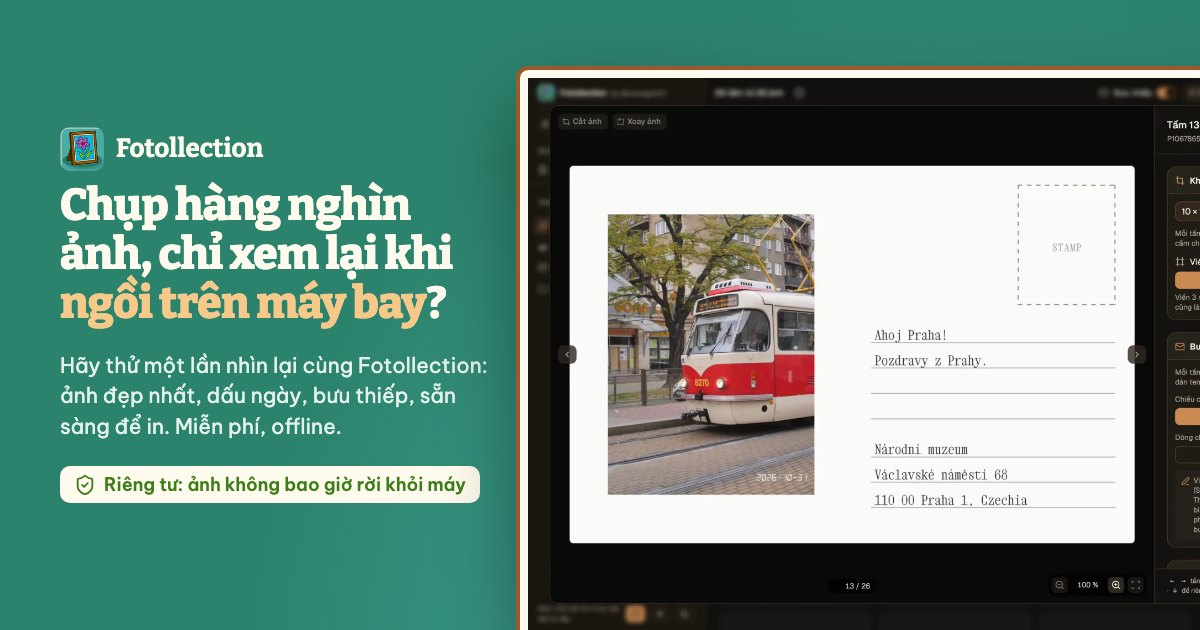
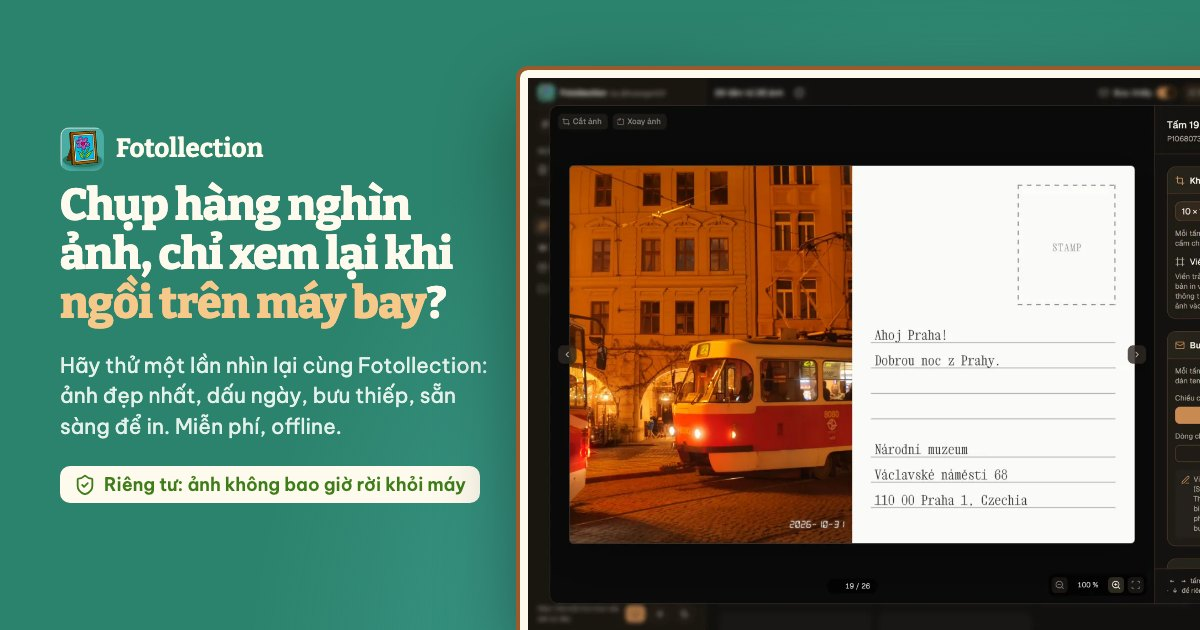
docs(site): a tram by night on a postcard filled to the edge, also the link preview [FR-073]
demo.rs records the postcards twice: bordered on the red tram and filled
to the edge with no border on the trams by night, so the landing page
shows both ways and the home page's link preview the warmer one. FR-074
plans postcard backs with a background colour or a pattern.

diff --git a/site/screenshots/og.html b/site/screenshots/og.html
@@ -55,8 +55,8 @@
       const lang = params.get('lang') === 'vi' ? 'vi' : 'en'
       const cards = {
         home: {
-          // The owner's red tram as a postcard, "Ahoj Praha!" (shoot.mjs).
-          shot: `manual-postcard-${lang}-dark.webp`,
+          // The owner's tram by night on a postcard filled to the edge, "Ahoj Praha!" (shoot.mjs).
+          shot: `postcard-night-${lang}-dark.webp`,
           en: ['', ['Thousands of photos, only looked at ', 'on the plane', ' home?'], 'Take one real look back with Fotollection: best shots, date stamp, postcards, ready to print. Free and offline.', 'Private: your photos never leave your computer'],
           vi: ['', ['Chụp hàng nghìn ảnh, chỉ xem lại khi ', 'ngồi trên máy bay', '?'], 'Hãy thử một lần nhìn lại cùng Fotollection: ảnh đẹp nhất, dấu ngày, bưu thiếp, sẵn sàng để in. Miễn phí, offline.', 'Riêng tư: ảnh không bao giờ rời khỏi máy'],
         },

diff --git a/site/_includes/home.html b/site/_includes/home.html
@@ -43,7 +43,7 @@
       </div>
     </div>
     <div class="showcase-row flip">
-      <figure class="shot">{% include shot.html name="manual-postcard" alt=t.show_postcard_text %}</figure>
+      <figure class="shot">{% include shot.html name="postcard-night" alt=t.show_postcard_text %}</figure>
       <div class="showcase-text">
         <h3>{{ t.pc_type_title }}</h3>
         <p>{{ t.pc_type_text }}</p>

diff --git a/src-tauri/src/demo.rs b/src-tauri/src/demo.rs
@@ -68,7 +68,8 @@ fn record(app: &AppHandle, folder: PathBuf, out: &Path) -> Result<(), String> {
         "common": record_common(app, &ids, out)?,
         "scenarios": record_scenarios(app, &ids, out)?,
         "collage": record_collage(app, out)?,
-        "postcard": record_postcard(app, out)?,
+        "postcard": record_postcard(app, out, &BORDERED)?,
+        "postcard_full": record_postcard(app, out, &FULL)?,
     });
     let text = serde_json::to_string_pretty(&fixtures).map_err(|e| e.to_string())?;
     write(&out.join("fixtures.json"), text.as_bytes())?;
@@ -292,40 +293,72 @@ fn record_collage(app: &AppHandle, out: &Path) -> Result<Value, String> {
     }))
 }
 
-/// The messages typed on three demo postcards, each sent to the National Museum in
-/// Prague (a public address, so it can be shown), on the address's three lines.
-const POSTCARD_TEXTS: [(&str, &str); 3] = [
-    ("Ahoj Praha!\nPozdravy z Prahy.", NATIONAL_MUSEUM),
-    ("Ahoj Praha!\nLove from the funicular.", NATIONAL_MUSEUM),
-    ("Ahoj Praha!\nThương gửi cả nhà.", NATIONAL_MUSEUM),
-];
+/// One recording of the demo postcards (FR-073): how the photo half is set, and the
+/// messages typed on three cards from the named photo on (the owner's, `demo_set.txt`), or
+/// from the first card when the set does not have it. Each is sent to the National Museum
+/// in Prague, a public address, on the address's three lines.
+struct PostcardDemo {
+    key: &'static str,
+    border: bool,
+    fill: bool,
+    from: &'static str,
+    messages: [&'static str; 3],
+}
 const NATIONAL_MUSEUM: &str = "Národní muzeum\nVáclavské náměstí 68\n110 00 Praha 1, Czechia";
+/// The red tram by day, with the 3 mm border round the photo.
+const BORDERED: PostcardDemo = PostcardDemo {
+    key: "sheet-postcard",
+    border: true,
+    fill: false,
+    from: "P1067865",
+    messages: [
+        "Ahoj Praha!\nPozdravy z Prahy.",
+        "Ahoj Praha!\nLove from the funicular.",
+        "Ahoj Praha!\nThương gửi cả nhà.",
+    ],
+};
+/// The trams by night, the photo filling its half to the edge.
+const FULL: PostcardDemo = PostcardDemo {
+    key: "sheet-postcard-full",
+    border: false,
+    fill: true,
+    from: "P1068073",
+    messages: [
+        "Ahoj Praha!\nDobrou noc z Prahy.",
+        "Ahoj Praha!\nPozdrav z tramvaje.",
+        "Ahoj Praha!\nThe last 22 home.",
+    ],
+};
 
 /// Postcards (FR-073), after the collage: the same photos, one per card, held landscape,
 /// three with a typed message; each card's facts, its text and its images.
-fn record_postcard(app: &AppHandle, out: &Path) -> Result<Value, String> {
+fn record_postcard(app: &AppHandle, out: &Path, demo: &PostcardDemo) -> Result<Value, String> {
     let state = app.state::<AppState>();
     let mut settings = state.settings.read().map_err(|e| e.to_string())?.0.clone();
     settings.collage.postcard.enabled = true;
+    settings.border = demo.border;
+    settings.collage.fill = demo.fill;
     ok(commands::set_settings(app.clone(), app.state(), settings))?;
     let sheets = crate::collage::list_sheets(app.state(), CullFilter::default())
         .map_err(|e| format!("{e:?}"))?;
-    // From the owner's red tram on (demo_set.txt) when the set has it, the first cards otherwise.
     let start = {
         let lib = state.library.read().map_err(|e| e.to_string())?;
         sheets
             .iter()
             .position(|sheet| {
                 lib.summary(sheet.first)
-                    .is_some_and(|s| s.file_name.starts_with("P1067865"))
+                    .is_some_and(|s| s.file_name.starts_with(demo.from))
             })
             .unwrap_or(0)
     };
     let texted = sheets.iter().cycle().skip(start).take(sheets.len());
-    for (sheet, (message, address)) in texted.zip(POSTCARD_TEXTS) {
+    for (sheet, message) in texted.zip(demo.messages) {
         for (part, text) in [
             (fotollection_core::settings::PostcardPart::Message, message),
-            (fotollection_core::settings::PostcardPart::Address, address),
+            (
+                fotollection_core::settings::PostcardPart::Address,
+                NATIONAL_MUSEUM,
+            ),
         ] {
             ok(commands::set_postcard_text(
                 app.clone(),
@@ -362,7 +395,7 @@ fn record_postcard(app: &AppHandle, out: &Path) -> Result<Value, String> {
         );
         for (small, suffix) in [(true, "-small"), (false, "")] {
             write(
-                &out.join(format!("img/sheet-postcard/{key}{suffix}.jpg")),
+                &out.join(format!("img/{}/{key}{suffix}.jpg", demo.key)),
                 &crate::collage::sheet_bytes(&state, sheet, small).map_err(|e| e.message)?,
             )?;
         }

diff --git a/docs/STATUS.md b/docs/STATUS.md
@@ -158,7 +158,8 @@ The audit of 2026-11-02 read the RAW path, the JPEG and colour path and the docs
 | FR-070 | Looks from LUT files | 2 | Not Started | Planned for v0.11.0, after the v0.10.0 core (owner, 2026-11-02): `.cube` import, built-in looks of our own, strength, per-photo override; one 33³ engine shared with FR-039 ([ADR-0036](adr/0036-colour-looks-cube-luts-first.md)) |
 | FR-071 | Image facts | 1 | Done | 2026-11-03: `facts.rs` reads chroma subsampling, coding, bits, colour space (ICC name, EXIF R03), sensor filter and DNG kind at import, in RAM only (DATABASE N4); a RAW's sensor from rawler when the inspector reads the file. The inspector's Image card shows the line, the grid an ⓘ for `unusual()`, the flag filter *Unusual files*. Tests: `facts::tests`, `library::tests::fr_071_the_unusual_filter_keeps_unusual_files`, `dng::tests::facts_tell_the_dng_kinds_apart`, `colour::tests::profile_names_from_v2_and_v4_profiles`. HEIC (`colr`, `pixi`) and the facts in the error log's context followed in session 5. Left: a RAW other than DNG is badged only once opened |
 | FR-072 | Our own develop core | 1 | Not Started | Planned for v0.10.0 (owner, 2026-11-02): sensor kind first, RCD and Markesteijn, Gr/Gb, false colour, highlights, linear working space, colour management everywhere ([ADR-0037](adr/0037-our-own-develop-core.md)). Sessions 5–9 |
-| FR-073 | Postcard sheets | 1 | In Progress | v0.9.4 (owner, 2026-11-03). ✓ Core: `postcard.rs` (dashed 26 × 32 mm stamp box, text box, 3–4 lines, typed text in Xanh Mono or the user's font, wrapped), `sheet::layout` puts the one photo on the left or bottom half, one photo per sheet, Auto turn off; `set_postcard_text` / `get_postcard_text` checked in Rust (`ERR-IPC-0022`); settings v11, project v10. Tests: `postcard::tests`, `sheet::tests::fr_073_a_postcard_sheet_draws_one_photo_and_the_card`, `settings_store::tests::fr_073_v10_files_have_no_postcard_and_it_round_trips`, `project::tests::fr_073_v10_fixture_keeps_postcard_texts_within_limits`. ✓ UI: a labelled **Postcard** switch in the bar above the sheets next to Select (`SheetKindToggle`, owner's choice), then in the panel `PostcardCard` (held landscape or portrait, 3 or 4 lines with no box, the pen note) and `PostcardTextCard` (the chosen card's message and address, each with bold, italic, underline; font with Inter for Greek and Cyrillic, size, ink, credit line; the same card in a postcard's preview); the top band free for more stamps or a long post-office label, the lines together at the foot (stacked on a landscape card, two columns with a rule on a portrait one), pen note in the shared `PanelNote`), `PostcardTextField` in a card's preview (the shared `CommitInput`, now multiline), sheet turn and Auto turn hidden, no cut line; exported as `<photo>-postcard.jpg` (`pipeline::fr_073_postcards_export_one_file_per_photo`); manual §19.1, landing page row, screenshots `postcard`, `manual-postcard`. Left: a real print and pen test (TESTING §7, item 9) |
+| FR-073 | Postcard sheets | 1 | In Progress | v0.9.4 (owner, 2026-11-03). ✓ Core: `postcard.rs` (dashed 26 × 32 mm stamp box, text box, 3–4 lines, typed text in Xanh Mono or the user's font, wrapped), `sheet::layout` puts the one photo on the left or bottom half, one photo per sheet, Auto turn off; `set_postcard_text` / `get_postcard_text` checked in Rust (`ERR-IPC-0022`); settings v11, project v10. Tests: `postcard::tests`, `sheet::tests::fr_073_a_postcard_sheet_draws_one_photo_and_the_card`, `settings_store::tests::fr_073_v10_files_have_no_postcard_and_it_round_trips`, `project::tests::fr_073_v10_fixture_keeps_postcard_texts_within_limits`. ✓ UI: a labelled **Postcard** switch in the bar above the sheets next to Select (`SheetKindToggle`, owner's choice), then in the panel `PostcardCard` (held landscape or portrait, 3 or 4 lines with no box, the pen note) and `PostcardTextCard` (the chosen card's message and address, each with bold, italic, underline; font with Inter for Greek and Cyrillic, size, ink, credit line; the same card in a postcard's preview); the top band free for more stamps or a long post-office label, the lines together at the foot (stacked on a landscape card, two columns with a rule on a portrait one), pen note in the shared `PanelNote`), `PostcardTextField` in a card's preview (the shared `CommitInput`, now multiline), sheet turn and Auto turn hidden, no cut line; exported as `<photo>-postcard.jpg` (`pipeline::fr_073_postcards_export_one_file_per_photo`); manual §19.1, landing page section, screenshots `postcard`, `manual-postcard` and `postcard-night` (demo.rs records a bordered and a filled set). Left: a real print and pen test (TESTING §7, item 9) |
+| FR-074 | Postcard backs: colour and patterns | 2 | Not Started | The owner's idea (2026-11-03): a background colour or a pattern behind a postcard's lines and stamp box, the ink following it; after v0.9.4, not scheduled yet |
 | FR-068 | HEIC on Linux through the system's libheif | 2 | Not Started | v0.8.2 skips HEIC on Linux with its own reason (`HeicNotOnLinux`); after v0.9.0 ([ADR-0034](adr/0034-linux-lean.md)) |
 | FR-059 | Quick-preview | 1 | In Progress | ✓ Hold Space in select mode over a photo: thumbnail at once, then the render with the gallery's settings; ← → and Enter while held (`use-quick-preview.ts`). Left: check by hand in the app |
 | FR-049 | Trip journal | 2 | Not Started | Future: offline report drafted from the album (days, places, counts, cameras, focal-length range, best shots per day), templates in EN/VI, editable, export HTML/PDF or a journal print; every editing session adds a journal entry (instax-style) |

diff --git a/site/README.md b/site/README.md
@@ -8,7 +8,7 @@ The project's website, <https://fotollection.org/>, in English (`/`) and Vietnam
 | `_data/i18n.yml` | Every string, in `en` and `vi`, with the same keys |
 | `_data/platforms.yml` | The facts of the "By system" table on the Download page (`#systems`; Features on the home page links to it) (macOS, Windows, Linux): one row per feature, a mark per system (`ok`, `soon`, `none`) and the footnote number a cell carries; the words are the `pf_*` keys, so the two languages cannot drift ([ADR-0034](../docs/adr/0034-linux-lean.md)). The Linux card (`#install-linux`: the `install.sh` one-liner, the APT repository, the AppImage, the four files) and the distributions block (`#linux`, `distro_groups`) are on the Download page. New footnotes are appended to the `notes` list in `default.html`, never inserted, so the numbers stay put |
 | `_layouts/default.html` | Page shell: meta tags, Open Graph and Twitter cards (each page's own preview image, `og-{page}-{lang}.jpg` named by `og:` in its front matter, made by `screenshots/og.mjs`), `hreflang`, navigation, footer (with the red *Report a problem* button to the issue forms, FR-069) |
-| `_includes/home.html` | The page itself: right after the hero the Postcard section (`#postcard`, `pc_*` and `postcard_*` keys, the `postcard` and `manual-postcard` screenshots, marked coming until v0.9.4), then the features, and later the "Three modes" section (`modes_*`, `collage_*`, `simple_*` keys, the `collage` and `simple` screenshots; shipped in v0.9.0); `shot.html` (a screenshot, dark or light), `star.html` (the GitHub star link), `icons/` (Lucide, ISC) |
+| `_includes/home.html` | The page itself: right after the hero the Postcard section (`#postcard`, `pc_*` and `postcard_*` keys, the `postcard` screenshot (bordered, the red tram) and `postcard-night` (filled to the edge, a tram by night, also the home page's link preview), marked coming until v0.9.4), then the features, and later the "Three modes" section (`modes_*`, `collage_*`, `simple_*` keys, the `collage` and `simple` screenshots; shipped in v0.9.0); `shot.html` (a screenshot, dark or light), `star.html` (the GitHub star link), `icons/` (Lucide, ISC) |
 | `index.html`, `vi/index.html` | The two languages |
 | `download.html`, `vi/download.html`, `_includes/download.html` | The Download page (`/download/`, `/vi/download/`), where the nav's Download button and the footer lead: the install steps for each system (`#install`, Linux in `#install-linux` with a Copy button on each command box), the table by system (`#systems`, footnotes 14–19), What's new (`#changelog`, the CHANGELOG from its latest released version) and which Linux distributions run it (`#linux`). Laid out like the Performance page (`perf-head`, then sections). The home page keeps only its three download buttons; the Linux one leads here. `_includes/download-buttons.html` holds the three download buttons, under the title here and in the home page's hero. `_includes/release-assets.html` matches the latest release's files for both pages, on how their names end, falling back to the releases page. Strings: `dl_*`, `install_*`, `linux_*`, `distro_*`, `changelog_*` |
 | `performance.html`, `vi/performance.html`, `_includes/performance.html` | The Performance page: every measurement with its chart, what it means, and plain-language explanations (ΔE, SSIM, JPEG bit depth, 4:4:4, colour profiles, DPI). Its strings are the `perf_*` keys; the real-trip part (`#trip`) shows tiles (`trip_stats`) typed from `bench/results/trip.json` (`bench/trip.sh`) instead of a chart; pages other than home set `path_en`, `path_vi`, `title_key` and `description_key` in their front matter |

diff --git a/site/screenshots/README.md b/site/screenshots/README.md
@@ -5,7 +5,7 @@ The screenshots on the website show the **real app on demo photos**: the CC0 pho
 1. `python3 -I site/screenshots/fetch_photos.py <folder>` downloads the demo photos listed in [`photos.json`](photos.json) from Wikimedia Commons and checks each one's SHA-256 and licence. They are not kept in the repository.
 2. `site/screenshots/build.sh <folder> <work-dir> [best-shot-photo] [owner-folder]` then gathers the photos named in [`demo_set.txt`](demo_set.txt), the CC0 ones from `<folder>` and the owner's from `<owner-folder>`, and:
    - runs the debug app with `FOTOLLECTION_DEMO_FOLDER` and `FOTOLLECTION_DEMO_DUMP` ([`src-tauri/src/demo.rs`](../../src-tauri/src/demo.rs)): it imports the folder with its own settings, cache and project (never the user's), runs the best-shot analysis, records what each IPC command answers and the image protocol's bytes, then quits;
-   - shoots the real interface (`ui/dist`) with Playwright ([`shoot.mjs`](shoot.mjs)), answering IPC from that recording, in English and Vietnamese, dark and light: the library, the date stamp, the info frame, the crop editor, best-shot groups, Simple mode (`simple`), Collage mode (`collage` and a sheet's preview `manual-collage-preview`, from the sheets `demo.rs` records with the date stamp and the 3 mm border), and for the manual the filters, the Project block, the print sizes, the frame card, the groups list, the place picker and the Places card (`manual-*`);
+   - shoots the real interface (`ui/dist`) with Playwright ([`shoot.mjs`](shoot.mjs)), answering IPC from that recording, in English and Vietnamese, dark and light: the library, the date stamp, the info frame, the crop editor, best-shot groups, Simple mode (`simple`), Collage mode (`collage` and a sheet's preview `manual-collage-preview`, from the sheets `demo.rs` records with the date stamp and the 3 mm border), postcards twice (`postcard` and `manual-postcard` bordered on the red tram, `postcard-night` filled to the edge on a tram by night, each with "Ahoj Praha!" to the National Museum), and for the manual the filters, the Project block, the print sizes, the frame card, the groups list, the place picker and the Places card (`manual-*`);
    - writes 1600 px WebP screenshots to `site/assets/img/` (shots named `check-*` are only for checking controls by eye and stay out of the site; shots named `manual-*` are only for the manual, placed by the `<!-- shot: … -->` markers in `docs/USER_GUIDE.md` and `USER_GUIDE.vi.md`, [ADR-0031](../../docs/adr/0031-manual-on-the-website-from-the-user-guide.md)).
 
    - renders every page's link preview (Open Graph, 1200 × 630 JPEG) with [`og.mjs`](og.mjs) from [`og.html`](og.html) and those screenshots: `og-{lang}.jpg` for the home page, `og-{page}-{lang}.jpg` for Download, Performance, Manual and Code signing. A page names its card with `og:` in its front matter. `node site/screenshots/og.mjs` renders them alone, after a change of wording, with no app and no recording.

diff --git a/docs/PRD.md b/docs/PRD.md
@@ -801,6 +801,10 @@ Next to the batch settings, any other setting will later be overridable for one 
 - **Writing by hand:** the panel says to use a fine permanent marker (Sharpie Ultra Fine, edding 400, Stabilo OHPen S) on photo paper, to try it in the stamp box first and let it dry, and that ballpoint and gel pens smear or skip on the coating.
 - Settings v11 (`render.collage.postcard`), project v10 (`photos[].postcard`), [DATABASE.md](DATABASE.md).
 
+### FR-074 — Postcard backs: colour and patterns
+
+**P2 (planned; owner's idea 2026-11-03).** The back of a postcard ([FR-073](#fr-073--postcard-sheets)) gets its own look: a **background colour** (cream, kraft, pale blue…) and the colour of the lines and stamp box with it, or a **pattern** (stripes along the edge like an airmail envelope, a light grid, a texture), chosen in the *Postcard* card and the same on every card. Text and lines stay readable on it: the ink follows the background as it follows black paper today. To be designed and measured before it is scheduled (a pattern drawn at 300 DPI must keep NFR-021).
+
 ## 7. Non-functional requirements
 
 Performance budgets are measured as defined in [OPTIMIZATION.md](OPTIMIZATION.md). The reference machines are listed there.

diff --git a/docs/ROADMAP.md b/docs/ROADMAP.md
@@ -150,6 +150,7 @@ After v0.3.1, each release has one theme. On 2026-10-25 v0.6.0 shipped the viewe
 | FR-064 | Watch a folder: a photo written into it by a maker's tether app opens at once |
 | FR-066 | Borrow places from a GPX track: interpolate each photo's time along the track (split out of FR-031) |
 | FR-070 | Looks from LUT files (`.cube`, strength, per photo), LUMIX Lab style; v0.11.0, [ADR-0036](adr/0036-colour-looks-cube-luts-first.md) |
+| FR-074 | Postcard backs: a background colour or a pattern (airmail stripes, a grid, a texture) behind the lines; planned, not scheduled |
 | FR-068 | HEIC on Linux through the libheif the distribution installs, loaded at run time; no bundled HEVC decoder (after v0.9.0, [ADR-0034](adr/0034-linux-lean.md)) |
 | FR-049 | Trip journal: an offline report of the trip drafted from the album (days, places, photo counts, cameras, focal-length range), with a journal entry written by every editing session (like the instax app) |
 
